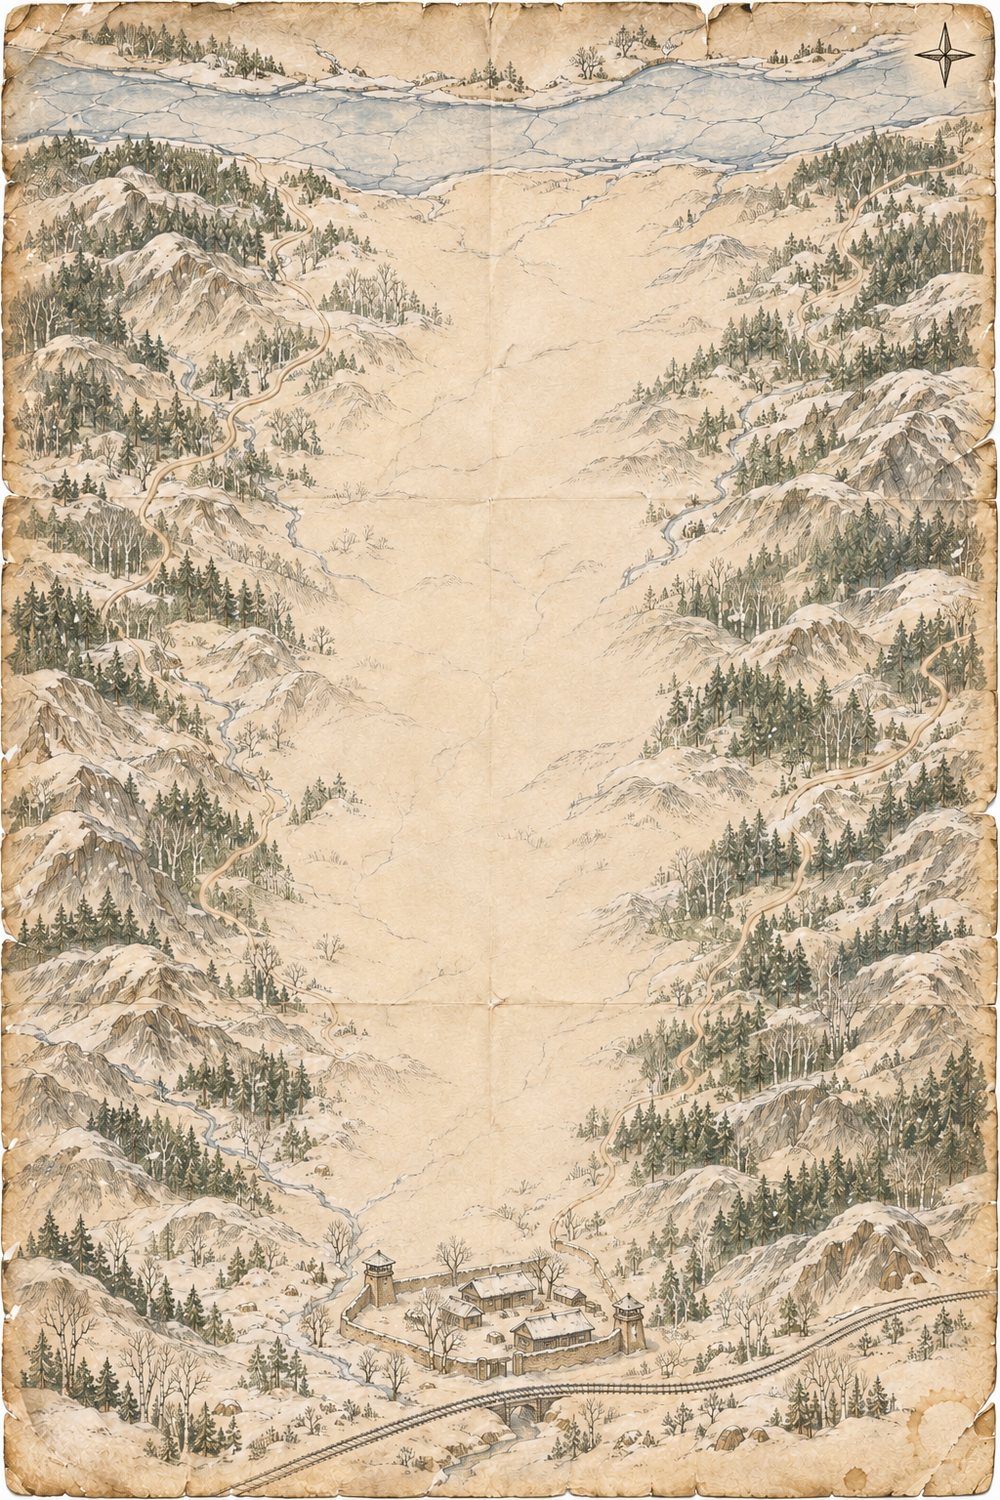
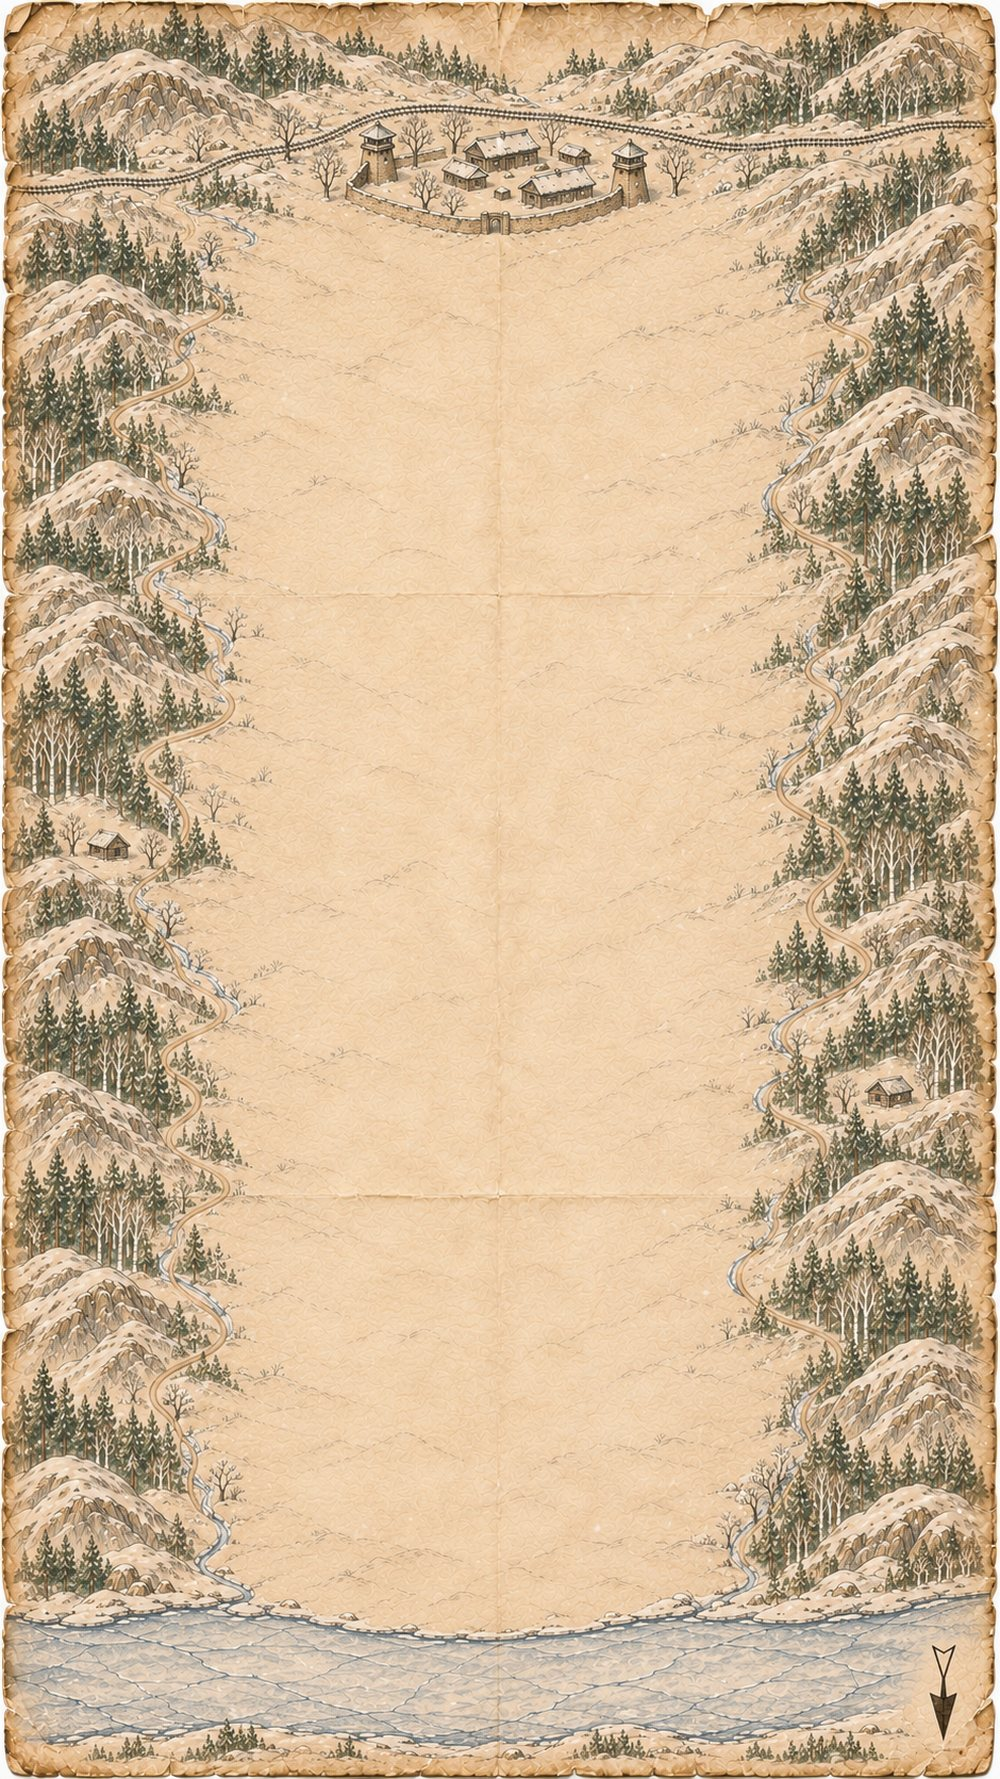
第一章地图换成 15 层新底图，地图布局改为按章节表配置
- 章节表 CHAPTERS：层数、列数、底图、起点/据点/通道位置都按比例写成数据，换图或加章节不用改代码
- 新底图 9:16（江在下、据点在上、指北针朝下），去掉临时翻转图
- 老存档（9 层）按存档里的层数排布，照常能玩

Claude-Session: https://claude.ai/code/session_015MetZnK2ffi84fWjnTuGS9

diff --git a/src/game.js b/src/game.js
@@ -45,7 +45,15 @@ function load() {
     s.deck = s.deck.filter(c => CARDS[c.id]); if (s.pending && s.pending.list) s.pending.list = s.pending.list.filter(id => CARDS[id]);
     uidN = 1 + Math.max(0, ...s.deck.map(c => c.uid || 0)); return s; } catch (e) { return null; }
 }
-const ROWS = 9, COLS = 5, TEMP_MAX = 10;
+const TEMP_MAX = 10;
+/* 章节表（地图部分）：层数、列数、底图，以及底图上各区域的位置（按比例，换图不用改代码）。
+   startY/endY：第一层和最后一层节点的高度；bossX/bossY：据点；xMin/xMax：节点能放的横向通道 */
+const CHAPTERS = [
+  { id: 1, name: '林海雪原', rows: 15, cols: 5, map: { img: 'assets/bg/map_ch1.jpg', w: 1000, h: 1779, startY: .865, endY: .175, bossX: .5, bossY: .092, xMin: .27, xMax: .73, startLabel: '▲ 越过冰封的江面，出发' } },
+];
+const CH = () => CHAPTERS[((R && R.act) || 1) - 1];
+const ROWSOF = () => (R && R.map && R.map.length) || CH().rows; /* 老存档是 9 层，按存档里的层数来 */
+const COLS = 5;
 function newRun() {
   uidN = 1;
   R = { hp: 72, maxHp: 72, deck: STARTER.map(id => mk(id)), temp: TEMP_MAX, food: 6, map: genMap(), pos: null, path: [], floor: 0, fights: 0, kills: 0 };
@@ -54,8 +62,9 @@ function newRun() {
 
 // ---------- 地图（沿用旧游戏的生成方式，9 层 + Boss） ----------
 function genMap() {
+  const ROWS = CH().rows;
   const g = Array.from({ length: ROWS }, () => Array(COLS).fill(null));
-  const node = (r, c) => g[r][c] || (g[r][c] = { r, c, next: [], type: null, x: 150 + c * 175 + rnd(-18, 18), y: 0 });
+  const node = (r, c) => g[r][c] || (g[r][c] = { r, c, next: [], type: null, jx: rnd(-14, 14), jy: rnd(-8, 8) });
   const crosses = (r, c, n) => g[r].some(o => o && o.c !== c && o.next.some(n2 => (o.c < c && n2 > n) || (o.c > c && n2 < n)));
   let first = -1;
   for (let p = 0; p < 5; p++) {
@@ -68,10 +77,10 @@ function genMap() {
   }
   const W = { fight: 50, event: 24, elite: 12, rest: 12 };
   for (let r = 0; r < ROWS; r++) for (const nd of g[r]) {
-    if (!nd) continue; nd.y = (ROWS - 1 - r) * 100 + 250 + rnd(-10, 10);
+    if (!nd) continue;
     if (r === 0) { nd.type = 'fight'; continue; } if (r === ROWS - 1) { nd.type = 'rest'; continue; }
     const parents = g[r - 1].filter(o => o && o.next.includes(nd.c)).map(o => o.type);
-    const ok = Object.entries(W).filter(([t]) => !((t === 'elite' || t === 'rest') && r < 3) && !(t === 'rest' && r === ROWS - 2) && !(['elite', 'rest'].includes(t) && parents.includes(t)));
+    const ok = Object.entries(W).filter(([t]) => !((t === 'elite' || t === 'rest') && r < Math.round(ROWS / 3)) && !(t === 'rest' && r === ROWS - 2) && !(['elite', 'rest'].includes(t) && parents.includes(t)));
     let tot = 0, x; ok.forEach(([, w]) => tot += w); x = Math.random() * tot;
     for (const [t, w] of ok) { x -= w; if (x <= 0) { nd.type = t; break; } }
     nd.type = nd.type || 'fight';
@@ -81,15 +90,15 @@ function genMap() {
   return g;
 }
 const NODE = { fight: ['战', '战斗', '#8a4a32'], elite: ['精', '精英', '#7a1a1a'], event: ['?', '未知', '#3a5a7a'], rest: ['营', '密营', '#2f6a3a'] };
-/* 章节地图：从下（江边起点）往上（讨伐队据点）走，同杀戮尖塔。画布 1000×1500（2:3），出图后把对应开关改成 true */
-const MAP_W = 1000, MAP_H = 1500, MAP_ART = true, NODE_ART = true;
-const MAP_FLIP = true; /* 现在的底图是按上北下南画的，先上下翻转顶着用；重画的底图到了改成 false */
-const mapY = nd => MAP_H - 190 - nd.r * 125 + ((nd.c * 37 + nd.r * 11) % 21 - 10); /* 不用存档里的旧 y，老存档也会翻成新方向 */
-const BOSS_Y = 182, BOSS_X = 470; /* 底图上讨伐队据点的位置 */
+/* 章节地图：从下（江边起点）往上（讨伐队据点）走，同杀戮尖塔。位置全部按章节表里的比例算 */
+const NODE_ART = true;
+const MAPD = () => CH().map;
+const nodeX = nd => { const m = MAPD(), cols = COLS; return Math.round(m.w * (m.xMin + (m.xMax - m.xMin) * nd.c / (cols - 1))) + (nd.jx || 0); };
+const mapY = nd => { const m = MAPD(), n = ROWSOF(); return Math.round(m.h * (m.startY - (m.startY - m.endY) * nd.r / Math.max(1, n - 1))) + (nd.jy || 0); };
 const nodeIcon = t => NODE_ART ? `<img src="assets/ui/node_${t}.png" alt="" draggable="false">` : NODE[t][0];
 function available() {
   if (!R.pos) return R.map[0].filter(Boolean);
-  if (R.pos.r === ROWS - 1) return ['boss'];
+  if (R.pos.r === ROWSOF() - 1) return ['boss'];
   const cur = R.map[R.pos.r][R.pos.c]; return cur.next.map(c => R.map[R.pos.r + 1][c]);
 }
 
@@ -212,23 +221,23 @@ function resume() {
 // ---------- 地图 ----------
 function mapScreen() {
   B = null; delete R.pending; save();
-  const av = available(), H = MAP_H, LC = '#6a4a2a';
+  const av = available(), M = MAPD(), H = M.h, LC = '#6a4a2a', BOSS_X = Math.round(M.w * M.bossX), BOSS_Y = Math.round(M.h * M.bossY), ROWS = ROWSOF();
   let lines = '', nodes = '';
   /* 走过的路画成红色实线（抗联路线），没走的是灰色虚线 */
   const walked = (a, b) => R.path.some((p, i) => p.r === a.r && p.c === a.c && R.path[i + 1] && R.path[i + 1].r === b.r && R.path[i + 1].c === b.c);
   const ln = (x1, y1, x2, y2, red) => `<line x1="${x1}" y1="${y1}" x2="${x2}" y2="${y2}" stroke="${red ? '#b8241a' : LC}" stroke-width="${red ? 6 : 3}" ${red ? '' : 'stroke-dasharray="4 8" opacity=".75"'} stroke-linecap="round"/>`;
-  for (const row of R.map) for (const nd of row) if (nd) for (const c of nd.next) { const t = R.map[nd.r + 1][c]; lines += ln(nd.x, mapY(nd), t.x, mapY(t), walked(nd, t)); }
-  for (const nd of R.map[ROWS - 1]) if (nd) lines += ln(nd.x, mapY(nd), BOSS_X, BOSS_Y, false);
+  for (const row of R.map) for (const nd of row) if (nd) for (const c of nd.next) { const t = R.map[nd.r + 1][c]; lines += ln(nodeX(nd), mapY(nd), nodeX(t), mapY(t), walked(nd, t)); }
+  for (const nd of R.map[ROWS - 1]) if (nd) lines += ln(nodeX(nd), mapY(nd), BOSS_X, BOSS_Y, false);
   for (const row of R.map) for (const nd of row) if (nd) {
     const isAv = av.includes(nd), done = R.path.some(p => p.r === nd.r && p.c === nd.c), cur = R.pos && R.pos.r === nd.r && R.pos.c === nd.c, [ch, , col] = NODE[nd.type];
-    nodes += `<div class="node ${NODE_ART ? 'pic' : ''} ${isAv ? 'av' : ''} ${done ? 'done' : ''} ${cur ? 'cur' : ''}" style="left:${nd.x}px;top:${mapY(nd)}px;${NODE_ART ? '' : 'background:' + col}" data-r="${nd.r}" data-c="${nd.c}">${nodeIcon(nd.type)}${cur && NODE_ART ? '<img class="curflag" src="assets/ui/node_cur.png" alt="">' : ''}</div>`;
+    nodes += `<div class="node ${NODE_ART ? 'pic' : ''} ${isAv ? 'av' : ''} ${done ? 'done' : ''} ${cur ? 'cur' : ''}" style="left:${nodeX(nd)}px;top:${mapY(nd)}px;${NODE_ART ? '' : 'background:' + col}" data-r="${nd.r}" data-c="${nd.c}">${nodeIcon(nd.type)}${cur && NODE_ART ? '<img class="curflag" src="assets/ui/node_cur.png" alt="">' : ''}</div>`;
   }
   nodes += `<div class="node boss ${NODE_ART ? 'pic' : ''} ${av[0] === 'boss' ? 'av' : ''}" style="left:${BOSS_X}px;top:${BOSS_Y}px">${NODE_ART ? nodeIcon('boss') : '讨伐队<br>据点'}</div><div class="maplab" style="left:${BOSS_X}px;top:${BOSS_Y - 82}px">讨伐队长 · 村濑</div>
-   <div class="maplab start" style="top:${MAP_H - 110}px">▲ 越过冰封的江面，出发</div>`;
-  view.innerHTML = `${topBar()}<div id="map"><div id="mapin" class="${MAP_ART ? 'art' : ''} ${MAP_FLIP ? 'flip' : ''}" style="height:${H}px"><svg width="${MAP_W}" height="${H}">${lines}</svg>${nodes}</div></div>
+   <div class="maplab start" style="left:${M.w / 2}px;top:${Math.round(M.h * .93)}px">${M.startLabel}</div>`;
+  view.innerHTML = `${topBar()}<div id="map"><div id="mapin" style="width:${M.w}px;height:${H}px;background-image:url(${M.img})"><svg width="${M.w}" height="${H}">${lines}</svg>${nodes}</div></div>
    <div id="legend"><div class="lgt">图例</div>${Object.keys(NODE).map(k => `<div><b class="${NODE_ART ? 'pic' : ''}" style="${NODE_ART ? '' : 'background:' + NODE[k][2]}">${nodeIcon(k)}</b>${NODE[k][1]}</div>`).join('')}<div><b class="${NODE_ART ? 'pic' : ''}" style="${NODE_ART ? '' : 'background:#4a1414'}">${NODE_ART ? nodeIcon('boss') : '首'}</b>讨伐队据点</div><div class="lg2"><i class="redl"></i>走过的路线<br>每走一格：体温 -1，口粮 -1</div></div>`;
   bindTop();
-  const m = $('#map'), y = R.pos ? mapY(R.map[R.pos.r][R.pos.c]) : MAP_H; m.scrollTop = Math.max(0, y - m.clientHeight + 200);
+  const m = $('#map'), y = R.pos ? mapY(R.map[R.pos.r][R.pos.c]) : H; m.scrollTop = Math.max(0, y - m.clientHeight + 200);
   view.querySelectorAll('.node.av').forEach(el => el.onclick = () => {
     if (el.classList.contains('boss')) { if (!walk()) return; R.floor++; return enterNode('boss'); }
     const nd = R.map[+el.dataset.r][+el.dataset.c]; if (!walk()) return;
@@ -632,7 +641,7 @@ function dbgPanel() {
   if (!DEBUG) return; $('#dbg')?.remove(); const d = document.createElement('div'); d.id = 'dbg';
   const btns = B && !B.over ? [['胜利', () => { E.alive(B).forEach(e => { e.hp = 0; e.dead = 1; e.deadAt = Date.now(); }); render(); checkEnd(); }], ['满弹', () => { B.ammo = B.cap; render(); }], ['清空弹仓', () => { B.ammo = 0; render(); }], ['枪感满', () => { B.p.feel = FEEL_MAX; render(); }],
     ['+能量', () => { B.p.energy += 3; render(); }], ['抽牌', () => { E.drawCards(B, 3); render(); }], ['给牌', () => showPile('给一张牌（加入手牌）', Object.keys(CARDS).map(id => ({ id, up: 0, uid: uidN++ })), c => { B.hand.push(c); render(); })], ['满血', () => { R.hp = R.maxHp; render(); }]]
-    : R ? [['去Boss', () => { R.pos = { r: ROWS - 1, c: R.map[ROWS - 1].findIndex(Boolean) }; mapScreen(); }], ['满血', () => { R.hp = R.maxHp; mapScreen(); }], ['口粮+5', () => { R.food += 5; mapScreen(); }], ['体温0', () => { R.temp = 0; mapScreen(); }], ['精英战', () => { R.pending = { t: 'elite', enc: ENC.elite[0] }; battle(ENC.elite[0], 'elite'); }], ['犬机狙', () => battle(['dog', 'mg', 'sniper'], 'fight')], ['伪掷步', () => battle(['puppet', 'mortar', 'puppet'], 'fight')], ['Boss战', () => { R.pending = { t: 'boss', enc: ENC.boss[0] }; battle(ENC.boss[0], 'boss'); }], ['缴获波波沙', () => offerLoot('c_ppsh', mapScreen)]] : [];
+    : R ? [['去Boss', () => { R.pos = { r: ROWSOF() - 1, c: R.map[ROWSOF() - 1].findIndex(Boolean) }; mapScreen(); }], ['满血', () => { R.hp = R.maxHp; mapScreen(); }], ['口粮+5', () => { R.food += 5; mapScreen(); }], ['体温0', () => { R.temp = 0; mapScreen(); }], ['精英战', () => { R.pending = { t: 'elite', enc: ENC.elite[0] }; battle(ENC.elite[0], 'elite'); }], ['犬机狙', () => battle(['dog', 'mg', 'sniper'], 'fight')], ['伪掷步', () => battle(['puppet', 'mortar', 'puppet'], 'fight')], ['Boss战', () => { R.pending = { t: 'boss', enc: ENC.boss[0] }; battle(ENC.boss[0], 'boss'); }], ['缴获波波沙', () => offerLoot('c_ppsh', mapScreen)]] : [];
   btns.forEach(([t, f]) => { const b = document.createElement('button'); b.textContent = t; b.onclick = ev => { ev.stopPropagation(); f(); }; d.appendChild(b); });
   if (btns.length) stage.appendChild(d);
 }

diff --git a/index.html b/index.html
@@ -158,9 +158,7 @@ button{font-family:inherit;cursor:pointer}
 .wcard b{font-size:24px;color:#ffd35a;display:block}.wcard small{color:#a89a7a}.wcard p{font-size:16px!important;margin:8px 0 0!important}
 /* 地图 */
 #map{position:absolute;left:0;right:0;top:48px;bottom:0;overflow-y:auto;background:#1e252c}
-#mapin{position:relative;width:1000px;margin:0 auto;background:linear-gradient(#e8dcc0,#d4c49c);border-left:6px solid #6a5030;border-right:6px solid #6a5030}
-#mapin.art{background:#d8c8a0 url(assets/bg/map_ch1.jpg) top center/100% 100% no-repeat}
-#mapin.art.flip{background-image:url(assets/bg/map_ch1_flip.jpg)}
+#mapin{position:relative;width:1000px;margin:0 auto;background:#d8c8a0 top center/100% 100% no-repeat;border-left:6px solid #6a5030;border-right:6px solid #6a5030}
 .maplab{position:absolute;left:500px;transform:translateX(-50%);font-size:20px;font-weight:bold;color:#6a1a10;white-space:nowrap;text-shadow:0 0 4px #f6ecd0,0 0 4px #f6ecd0}.maplab.start{color:#3a2a10}
 .node.pic{background:radial-gradient(circle,rgba(244,232,204,.85) 45%,rgba(244,232,204,0) 70%)!important;border:none;width:58px;height:58px;margin:-29px 0 0 -29px;box-shadow:none}.node.pic.cur{box-shadow:none}.node.pic.done img{filter:grayscale(.7)}
 .node .curflag{position:absolute;width:30px!important;height:auto!important;left:34px;top:-30px;filter:drop-shadow(0 2px 2px rgba(0,0,0,.4))}
